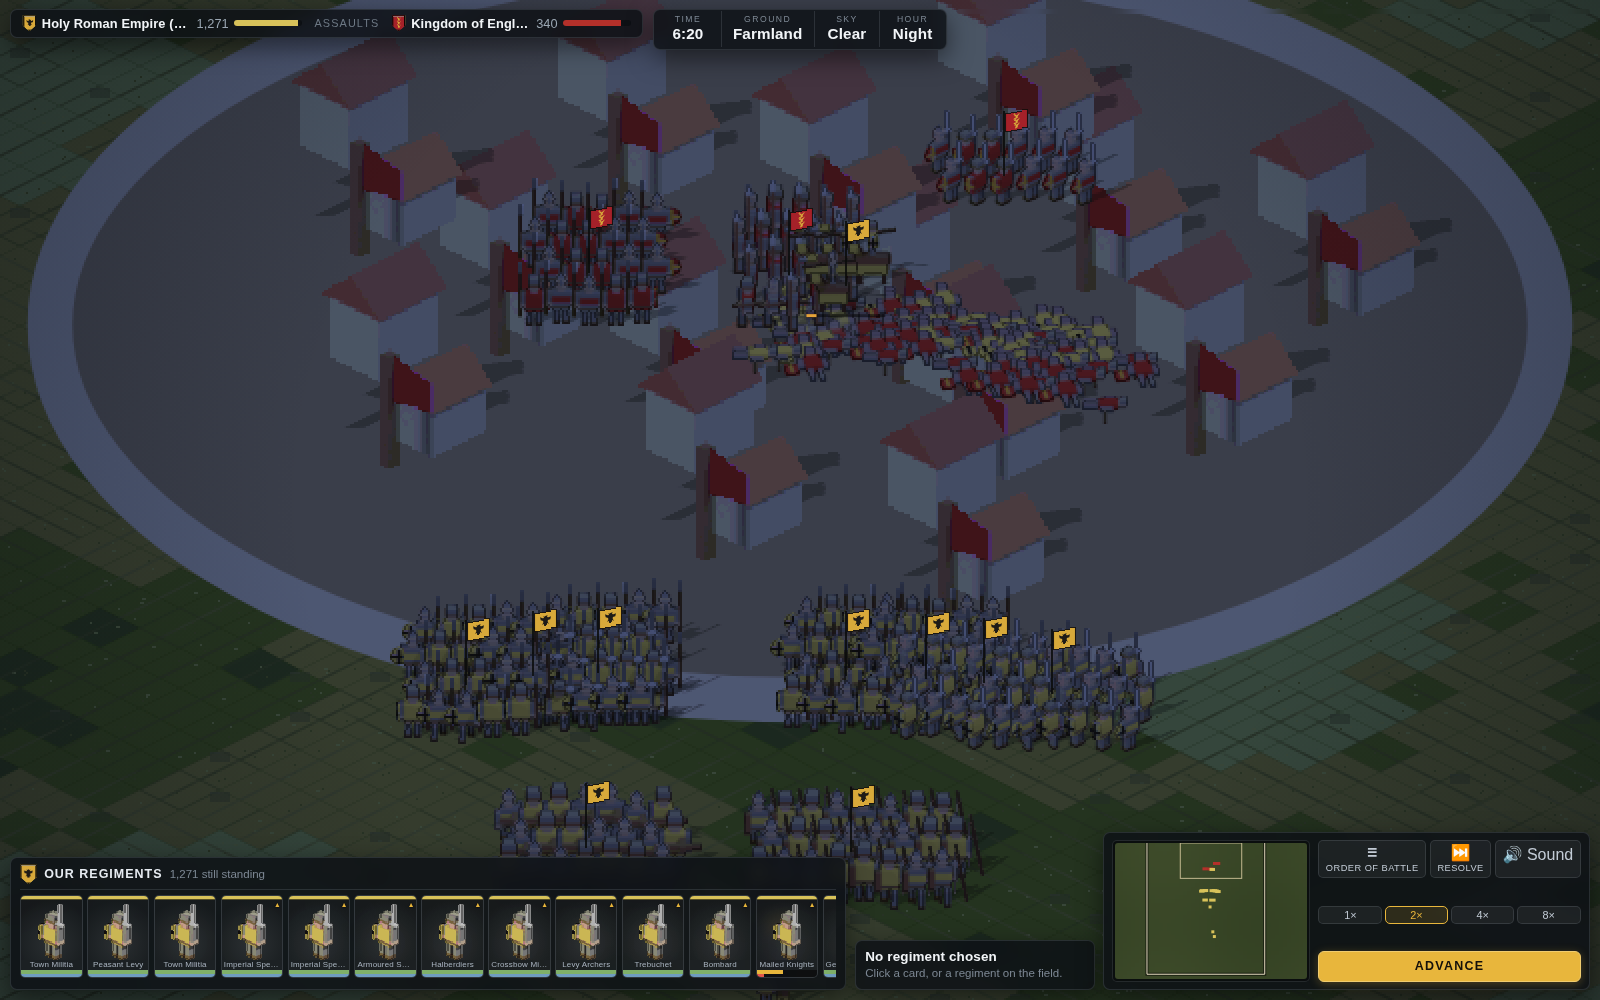
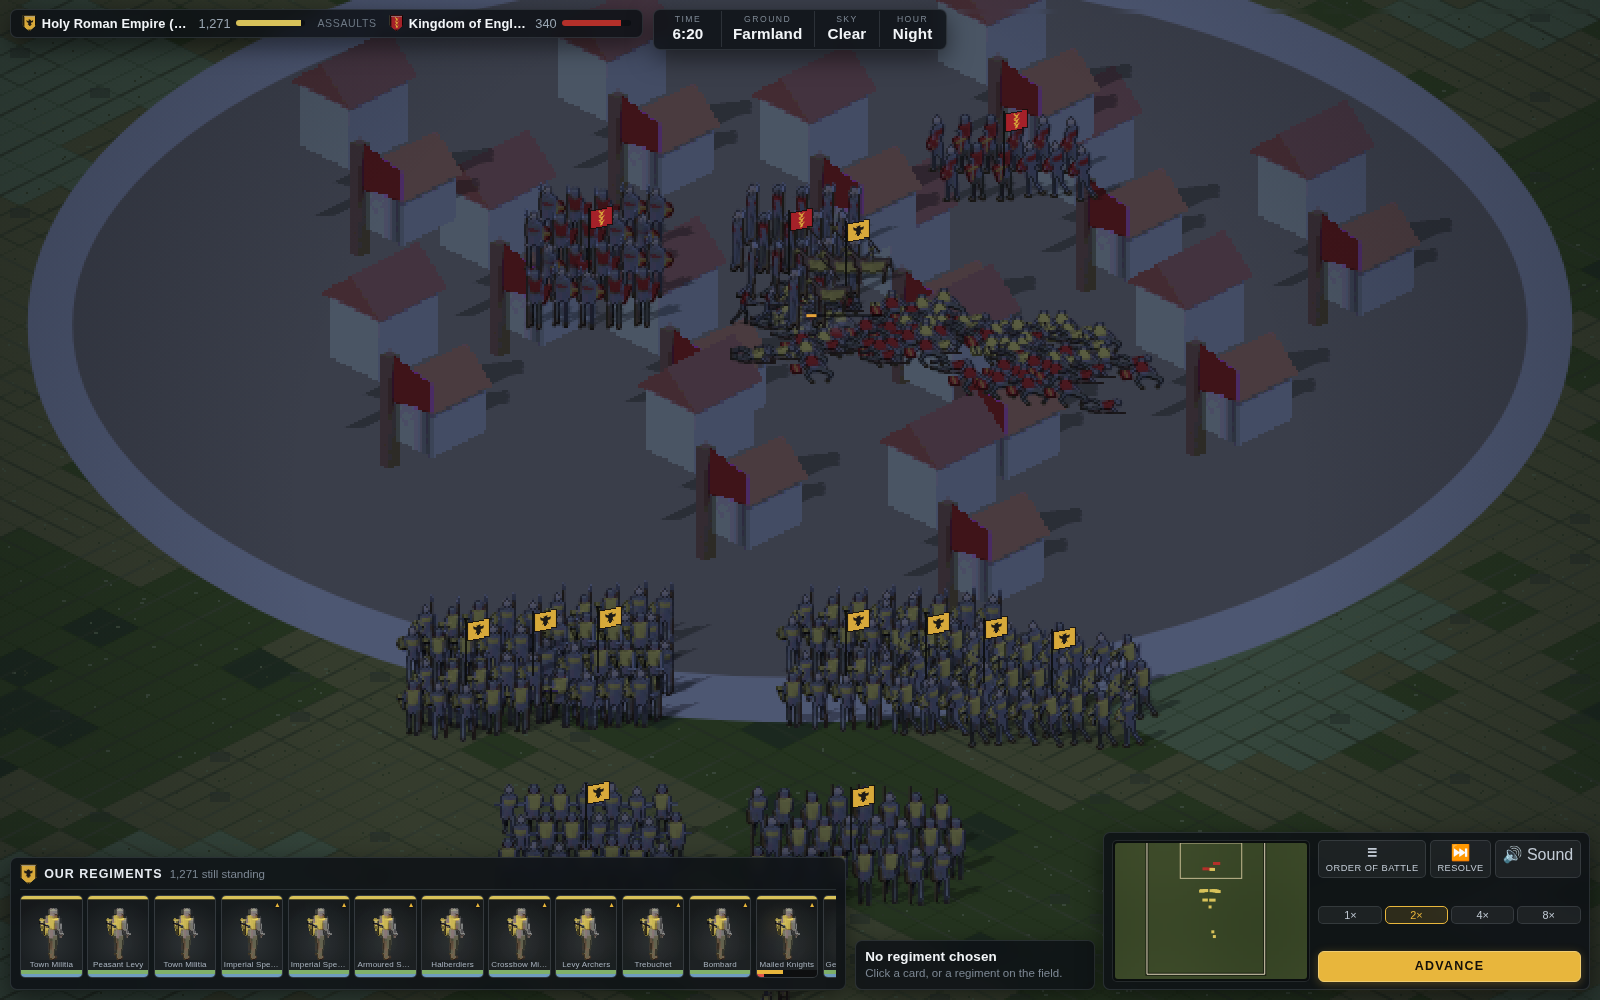
The same battles, fought by people
Every screenshot with a man in it was of a game where the men were boxes.
Retaken at the same moments and the same states: the French line at eight
twenty, the snow at half past five, the assault going in over the breach.
The sea fight is untouched, because it has no men in it — only hulls, and
hulls did not change.

The rendering table says what the figure is now: the skeleton, the four-beat
walk and the frame it was missing, and the fact that a weapon is held in the
hand that is holding it.

Claude-Session: https://claude.ai/code/session_01Qn6a1sErWqZSCdQmJW6r8m

diff --git a/README.md b/README.md
@@ -92,6 +92,9 @@ fight at sea.
   | Position | every sprite records where its own model stood, and is stamped by that point rather than by the middle of its frame — so a town lands on its coordinates and a spear leaning out of the frame does not move the settlement carrying it |
   | Armies | the man in command. An army with a general is a horseman with his standard planted beside him, one without is a captain on foot; either way what is standing in the province is a person, not a counter |
   | Sprites | one sheet; anything belonging to an owner is rendered in magenta and swapped for his colour, which is how one drawing serves seventy-three realms. The magenta is lit rather than flat — green stays at nought while red and blue carry how brightly that face was lit — so what is swapped in is the realm's colour standing in the light the rest of the model was standing in, and a surcoat has a shoulder and a flank instead of being a rectangle of paint |
+  | The figure | a skeleton, not a stack of boxes: hip, knee, ankle, shoulder, elbow, wrist, a pelvis, a tapered chest and a round head on proportions a person actually has. Every pose is a table of the angles those joints take, so the knees fold in a stride and the elbow comes up in a lunge. At twenty pixels you cannot see a knee; you can see that the leg has one |
+  | The walk | four beats out of four pictures — step, pass, other step, pass. The pass is the leg that has swung through coming under the body with the knee up, and it is the frame the sheet did not have: with straight legs a stand will serve for it, and with a knee in them it will not. A line standing still shifts its weight too, a man at a time, because a hundred identical frozen figures read as a texture |
+  | What he carries | placed in the hand that is holding it rather than at a fixed point beside him, so a spear comes up and across as the arm that owns it does, and a couched lance is tucked under the elbow it is actually tucked under |
   | Shrinking | a ninety-pixel model becomes a twenty-pixel man by averaging, not by keeping one pixel in five. Nearest-neighbour decided whether a four-pixel limb survived by where the grid happened to fall, and the grid moves every time the camera does, which is how men used to arrive on the field with one arm. The alpha is hardened again afterwards and the outermost ring darkened, which gives every figure the line between it and the grass that it needs |
   | Battles | the same picture at the scale of one field — pulled back a regiment is a body of men under a standard, closed in it is the men themselves in their ranks and files |
   | Names | drawn afterwards at the screen's own resolution, because a place name in six-pixel type is not a style, it is unreadable — and on the town it belongs to, which means the town is stamped at its own coordinates rather than at the middle of whichever tile it fell in |
@@ -544,7 +547,7 @@ npm run diagnose     # two hundred turns, and what came out of them
 ```
 
 Two aids for the part of the work that only an eye can judge. The sprite
-sheet is eight hundred and fifty renders and the better part of an hour, so
+sheet is a thousand renders and the better part of an hour, so
 `REGNA_SPRITES=spearman_0_0_idle,knight_0_2_fight` builds only those and
 writes them to `.sprite-preview.png` instead of over the real sheet, which
 turns a change to a model into a twenty-second loop. And `/figures.html`,
